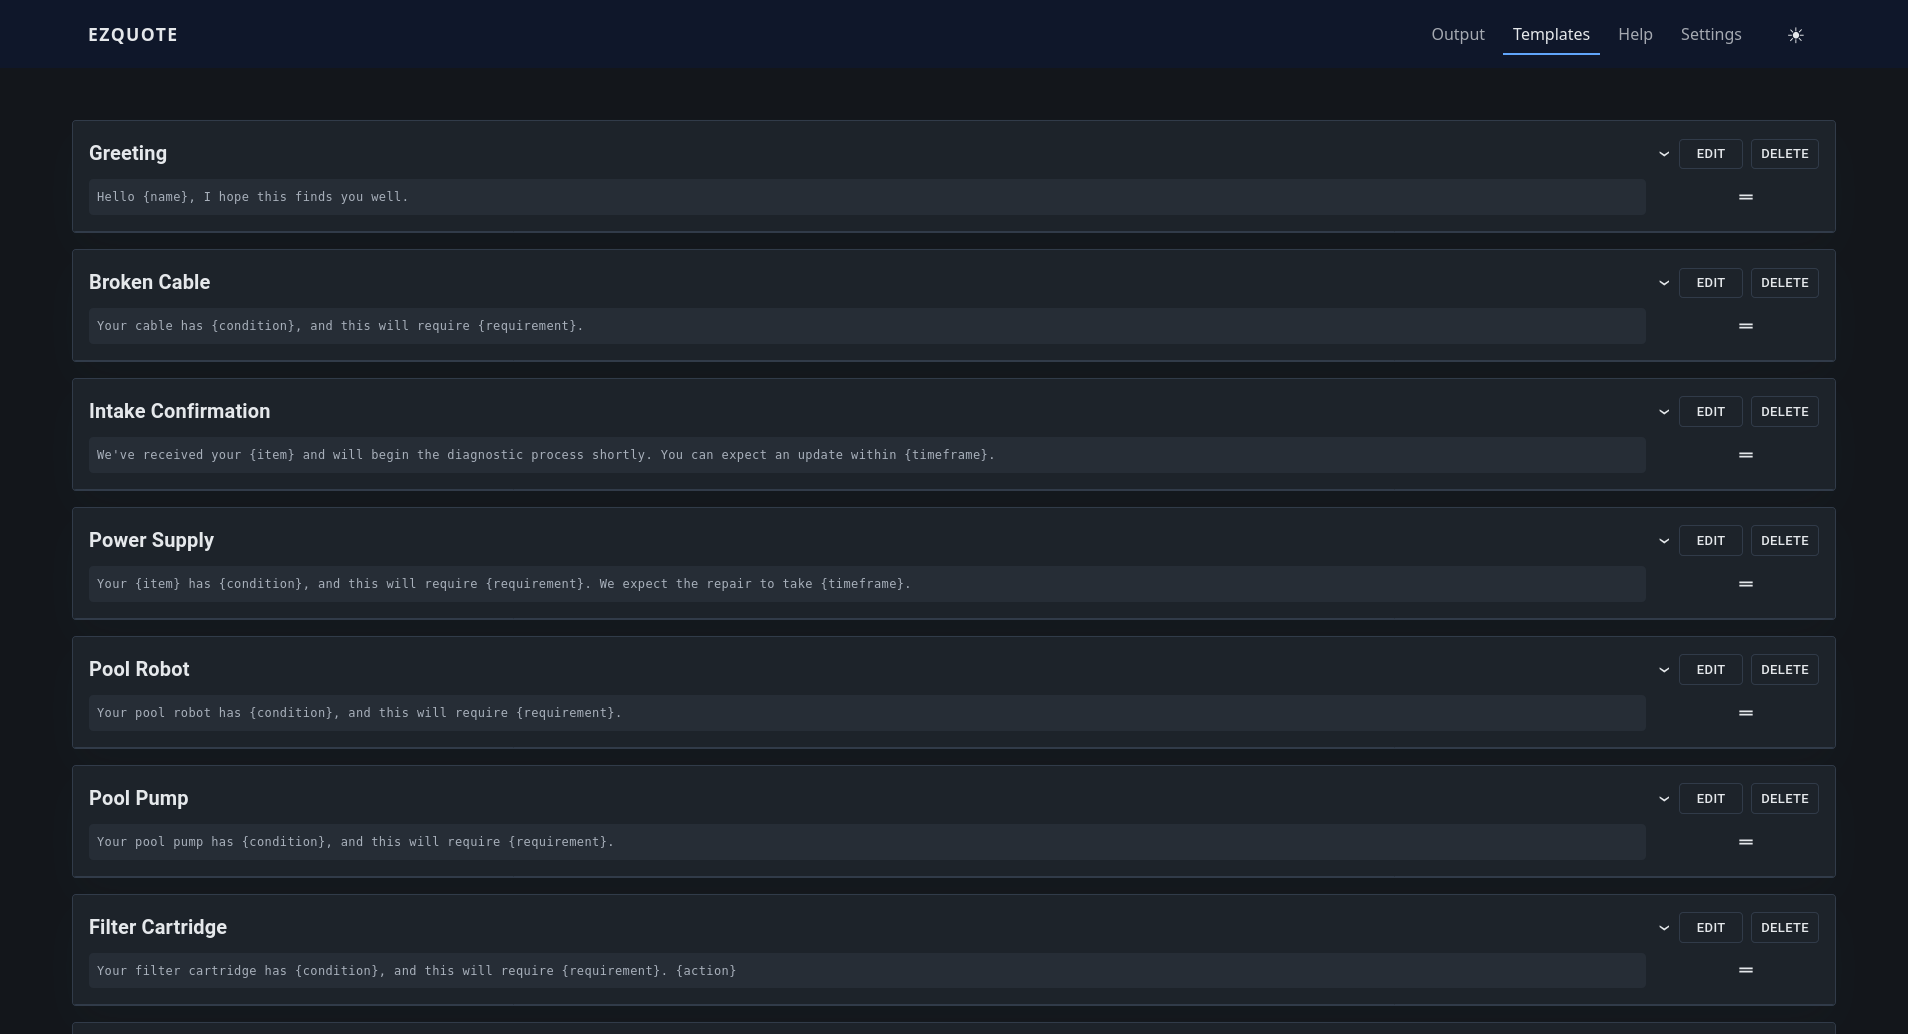
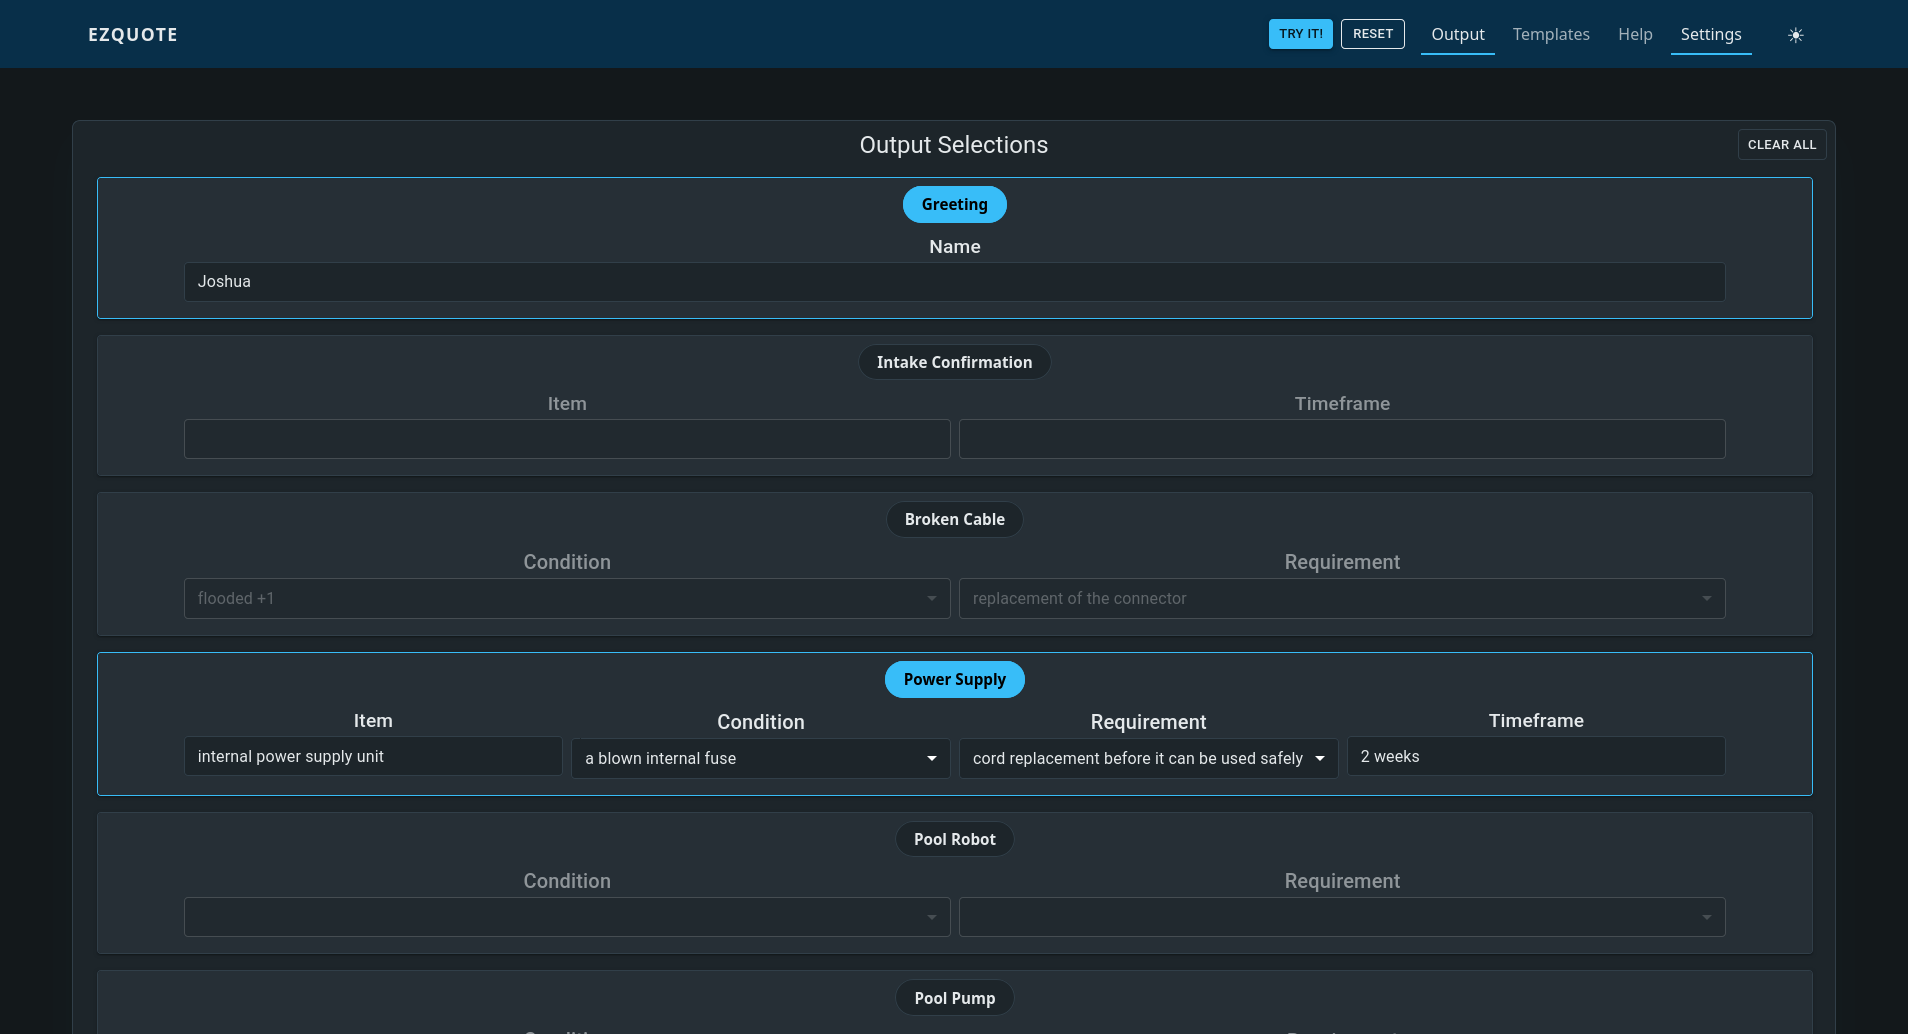
updated project screenshots and refactored global styles with MUI theme

diff --git a/src/components/sections/Skills.tsx b/src/components/sections/Skills.tsx
@@ -1,22 +1,8 @@
-import styled from '@emotion/styled';
-import { motion } from 'framer-motion';
-import { theme } from '../../styles/theme';
-import { 
-  FaReact, 
-  FaNodeJs, 
-  FaDatabase, 
-  FaDocker,
-  FaGitAlt,
-  FaAws
-} from 'react-icons/fa';
-import { 
-  SiTypescript,
-  SiJavascript,
-  SiPython,
-  SiMongodb,
-  SiPostgresql,
-  SiRedux
-} from 'react-icons/si';
+import styled from "@emotion/styled";
+import { motion } from "framer-motion";
+import { theme } from "../../styles/theme";
+import { FaReact, FaNodeJs, FaDatabase, FaDocker, FaGitAlt, FaAws } from "react-icons/fa";
+import { SiTypescript, SiJavascript, SiPython, SiMongodb, SiPostgresql, SiRedux } from "react-icons/si";
 
 const SkillsSection = styled.section`
   min-height: 100vh;
@@ -42,7 +28,7 @@ const SectionTitle = styled(motion.h2)`
   position: relative;
 
   &::after {
-    content: '';
+    content: "";
     position: absolute;
     bottom: -${theme.spacing.md};
     left: 50%;
@@ -99,7 +85,7 @@ const CategoryTitle = styled.h3`
   padding-bottom: ${theme.spacing.md};
 
   &::after {
-    content: '';
+    content: "";
     position: absolute;
     bottom: 0;
     left: 0;
@@ -153,33 +139,33 @@ const SkillItem = styled(motion.div)`
 
 const skillCategories = [
   {
-    title: 'Frontend',
+    title: "Frontend",
     icon: <FaReact />,
     skills: [
-      { name: 'React', icon: <FaReact /> },
-      { name: 'TypeScript', icon: <SiTypescript /> },
-      { name: 'JavaScript', icon: <SiJavascript /> },
-      { name: 'Redux', icon: <SiRedux /> },
+      { name: "React", icon: <FaReact /> },
+      { name: "TypeScript", icon: <SiTypescript /> },
+      { name: "JavaScript", icon: <SiJavascript /> },
+      { name: "Redux", icon: <SiRedux /> },
     ],
   },
   {
-    title: 'Backend',
+    title: "Backend",
     icon: <FaNodeJs />,
     skills: [
-      { name: 'Node.js', icon: <FaNodeJs /> },
-      { name: 'Python', icon: <SiPython /> },
-      { name: 'MongoDB', icon: <SiMongodb /> },
-      { name: 'PostgreSQL', icon: <SiPostgresql /> },
+      { name: "Node.js", icon: <FaNodeJs /> },
+      { name: "Python", icon: <SiPython /> },
+      { name: "MongoDB", icon: <SiMongodb /> },
+      { name: "PostgreSQL", icon: <SiPostgresql /> },
     ],
   },
   {
-    title: 'DevOps',
+    title: "DevOps",
     icon: <FaDocker />,
     skills: [
-      { name: 'Docker', icon: <FaDocker /> },
-      { name: 'Git', icon: <FaGitAlt /> },
-      { name: 'AWS', icon: <FaAws /> },
-      { name: 'CI/CD', icon: <FaDatabase /> },
+      { name: "Docker", icon: <FaDocker /> },
+      { name: "Git", icon: <FaGitAlt /> },
+      { name: "AWS", icon: <FaAws /> },
+      { name: "CI/CD", icon: <FaDatabase /> },
     ],
   },
 ];
@@ -208,43 +194,22 @@ const Skills = () => {
 
   return (
     <SkillsSection id="skills" role="region" aria-label="Skills and Expertise">
-      <SectionTitle
-        initial={{ opacity: 0, y: -20 }}
-        whileInView={{ opacity: 1, y: 0 }}
-        viewport={{ once: true }}
-        transition={{ duration: 0.5 }}
-        role="heading"
-        aria-level={2}
-      >
+      <SectionTitle initial={{ opacity: 0, y: -20 }} whileInView={{ opacity: 1, y: 0 }} viewport={{ once: true }} transition={{ duration: 0.5 }} role="heading" aria-level={2}>
         Skills & Expertise
       </SectionTitle>
-      <motion.div
-        variants={containerVariants}
-        initial="hidden"
-        whileInView="visible"
-        viewport={{ once: true }}
-      >
+      <motion.div variants={containerVariants} initial="hidden" whileInView="visible" viewport={{ once: true }}>
         <SkillsContainer role="list">
           {skillCategories.map((category, index) => (
-            <SkillCategory 
-              key={index} 
-              variants={itemVariants}
-              role="listitem"
-              aria-labelledby={`category-title-${index}`}
-            >
+            <SkillCategory key={index} variants={itemVariants} role="listitem" aria-labelledby={`category-title-${index}`}>
               <CategoryTitle id={`category-title-${index}`}>
                 <span aria-hidden="true">{category.icon}</span>
                 {category.title}
               </CategoryTitle>
               <SkillsList role="list" aria-label={`${category.title} skills`}>
                 {category.skills.map((skill, skillIndex) => (
-                  <SkillItem 
-                    key={skillIndex} 
-                    variants={itemVariants}
-                    role="listitem"
-                  >
+                  <SkillItem key={skillIndex} variants={itemVariants} role="listitem">
                     <span aria-hidden="true">{skill.icon}</span>
-                    <span>{skill.name}</span>
+                    <span style={{ whiteSpace: "nowrap" }}>{skill.name}</span>
                     <span className="sr-only">{`${skill.name} - ${category.title} skill`}</span>
                   </SkillItem>
                 ))}

diff --git a/src/components/Menu.tsx b/src/components/Menu.tsx
@@ -5,9 +5,26 @@ import MenuItem from '@mui/material/MenuItem';
 import IconButton from '@mui/material/IconButton';
 import { createTheme, ThemeProvider } from '@mui/material/styles';
 import { FaDownload, FaEye } from 'react-icons/fa';
-import { theme } from '../styles/theme';
+import { getThemeValues, type ThemeMode } from '../styles/theme';
 
-const muiTheme = createTheme();
+const createMuiTheme = (mode: ThemeMode) => {
+  const values = getThemeValues(mode);
+  return createTheme({
+    palette: {
+      mode,
+      primary: { main: values.colors.accent },
+      background: { paper: values.colors.glass.card },
+      text: { primary: values.colors.text, secondary: values.colors.textMuted },
+      divider: values.colors.surfaceBorder,
+    },
+    components: {
+      MuiMenu: { styleOverrides: { paper: { backgroundColor: values.colors.glass.card, border: `1px solid ${values.colors.surfaceBorder}`, boxShadow: values.colors.shadow.panel } } },
+      MuiMenuItem: { styleOverrides: { root: { color: values.colors.text, '&:hover': { backgroundColor: values.colors.overlay.light }, '&.Mui-selected': { backgroundColor: values.colors.overlay.light, '&:hover': { backgroundColor: values.colors.overlay.dark } } } } },
+      MuiIconButton: { styleOverrides: { root: { color: values.colors.textMuted, '&:hover': { backgroundColor: values.colors.overlay.light, color: values.colors.accent } } } },
+      MuiButton: { styleOverrides: { root: { color: 'inherit' } } },
+    },
+  });
+};
 
 export type CvFile = {
   label: string;
@@ -19,9 +36,12 @@ export type CvFile = {
 type BasicMenuProps = {
   label: string;
   files: CvFile[];
+  mode: ThemeMode;
 };
 
-export default function BasicMenu({ label, files }: BasicMenuProps) {
+export default function BasicMenu({ label, files, mode }: BasicMenuProps) {
+  const muiTheme = React.useMemo(() => createMuiTheme(mode), [mode]);
+  const values = getThemeValues(mode);
   const id = React.useId();
   const buttonId = `${id}-button`;
   const menuId = `${id}-menu`;
@@ -74,9 +94,9 @@ export default function BasicMenu({ label, files }: BasicMenuProps) {
               sx={{
                 display: 'flex', alignItems: 'center', gap: 2, minWidth: 120,
                 '& .menu-action': { opacity: 0.5, transition: 'opacity 150ms ease, color 150ms ease' },
-                '& .view-action': { color: theme.colors.accent, opacity: 1 },
+                '& .view-action': { color: values.colors.accent, opacity: 1 },
                 '&:has(.download-action:hover) .view-action': { color: 'inherit', opacity: 0.5 },
-                '&:has(.download-action:hover) .download-action': { color: theme.colors.accent, opacity: 1 },
+                '&:has(.download-action:hover) .download-action': { color: values.colors.accent, opacity: 1 },
               }}
             >
               <span>{file.label}</span>

diff --git a/src/styles/GlobalStyles.tsx b/src/styles/GlobalStyles.tsx
@@ -1,8 +1,8 @@
-import { Global, css } from '@emotion/react';
-import { theme, type ThemeValues } from './theme';
+import { Global, css } from "@emotion/react";
+import { theme, type ThemeValues } from "./theme";
 
 const globalStyles = (themeValues: ThemeValues) => css`
-  @import url('https://fonts.googleapis.com/css2?family=Inter:wght@400;500;600;700&family=Poppins:wght@500;600;700&display=swap');
+  @import url("https://fonts.googleapis.com/css2?family=Inter:wght@400;500;600;700&family=Poppins:wght@500;600;700&display=swap");
 
   :root {
     --color-primary: ${themeValues.colors.primary};
@@ -32,7 +32,9 @@ const globalStyles = (themeValues: ThemeValues) => css`
     --shadow-accent-medium: ${themeValues.colors.shadow.accentMedium};
   }
 
-  *, *::before, *::after {
+  *,
+  *::before,
+  *::after {
     margin: 0;
     padding: 0;
     box-sizing: border-box;
@@ -65,7 +67,12 @@ const globalStyles = (themeValues: ThemeValues) => css`
     flex-direction: column;
   }
 
-  h1, h2, h3, h4, h5, h6 {
+  h1,
+  h2,
+  h3,
+  h4,
+  h5,
+  h6 {
     font-family: ${theme.fonts.heading};
     font-weight: 600;
     line-height: 1.3;
@@ -103,7 +110,7 @@ const globalStyles = (themeValues: ThemeValues) => css`
   }
 
   .container {
-    width: min(90%, 1200px);
+    width: min(90%, 1600px);
     margin-inline: auto;
     padding-inline: ${theme.spacing.md};
     position: relative;
@@ -133,7 +140,9 @@ const globalStyles = (themeValues: ThemeValues) => css`
       break-inside: avoid;
     }
 
-    h1, h2, h3 {
+    h1,
+    h2,
+    h3 {
       page-break-after: avoid;
       break-after: avoid;
     }
@@ -164,7 +173,8 @@ const globalStyles = (themeValues: ThemeValues) => css`
     }
 
     /* Improve readability */
-    p, li {
+    p,
+    li {
       orphans: 3;
       widows: 3;
     }
@@ -226,6 +236,4 @@ type GlobalStylesProps = {
   themeValues: ThemeValues;
 };
 
-export const GlobalStyles = ({ themeValues }: GlobalStylesProps) => (
-  <Global styles={globalStyles(themeValues)} />
-);
+export const GlobalStyles = ({ themeValues }: GlobalStylesProps) => <Global styles={globalStyles(themeValues)} />;

diff --git a/src/components/sections/Projects.tsx b/src/components/sections/Projects.tsx
@@ -56,21 +56,30 @@ const ProjectGrid = styled.div`
 const projects: ProjectData[] = [
   {
     id: 1,
+    title: "Travel Planner",
+    description: "A full-stack travel planning application with interactive maps, scheduling, and multi-currency support for organizing trip itineraries.",
+    image: "/projects/travel-planner.png",
+    techStack: ["TypeScript", "React", "Leaflet", "Node.js"],
+    githubUrl: "https://github.com/sterance/travel-planner",
+    liveUrl: "https://travel.smith-c.com/demo",
+  },
+  {
+    id: 2,
     title: "EzQuote",
-    description: "An app for building canned customer-service responses from reusable templates with placeholder values, available as a web app or an Electron desktop app.",
+    description: "An app for building canned customer-service responses from reusable templates, available as a web app or an Electron desktop app.",
     image: "/projects/ezquote.png",
-    techStack: ["React", "TypeScript", "Material UI", "Electron", "dnd-kit"],
+    techStack: ["TypeScript", "React", "dnd-kit", "Electron"],
     githubUrl: "https://github.com/sterance/EzQuote",
     liveUrl: "https://ezquote.smith-c.com/demo",
   },
   {
-    id: 2,
-    title: "Travel Planner",
-    description: "A full-stack travel planning application with interactive maps, scheduling, and multi-currency support for organizing trip itineraries.",
-    image: "/projects/travel-planner.png",
-    techStack: ["React", "TypeScript", "Material UI", "Leaflet", "Node.js"],
-    githubUrl: "https://github.com/sterance/travel-planner",
-    liveUrl: "https://travel.smith-c.com/demo",
+    id: 3,
+    title: "lazymin",
+    description: "A terminal-based incremental game built with Rust and ratatui, playable in the browser via WebAssembly or as a native desktop app.",
+    image: "/projects/lazymin.png",
+    techStack: ["Rust", "ratatui", "xterm.js", "WebAssembly"],
+    githubUrl: "https://github.com/sterance/lazymin",
+    liveUrl: "https://terminal.smith-c.com",
   },
 ];
 

diff --git a/src/components/layout/Layout.tsx b/src/components/layout/Layout.tsx
@@ -275,7 +275,7 @@ export const Layout = ({ children, mode, onToggleTheme }: LayoutProps) => {
           <div className="container">
             <Logo initial={{ opacity: 0, x: -20 }} animate={{ opacity: 1, x: 0 }} transition={{ duration: 0.5 }} role="heading" aria-level={1}>
               Portfolio <span style={{ fontWeight: 400 }}>|</span>&nbsp;
-              <BasicMenu label="CV" files={cvFiles} />
+              <BasicMenu label="CV" files={cvFiles} mode={mode} />
             </Logo>
             <NavActions>
               <NavLinks role="list">
